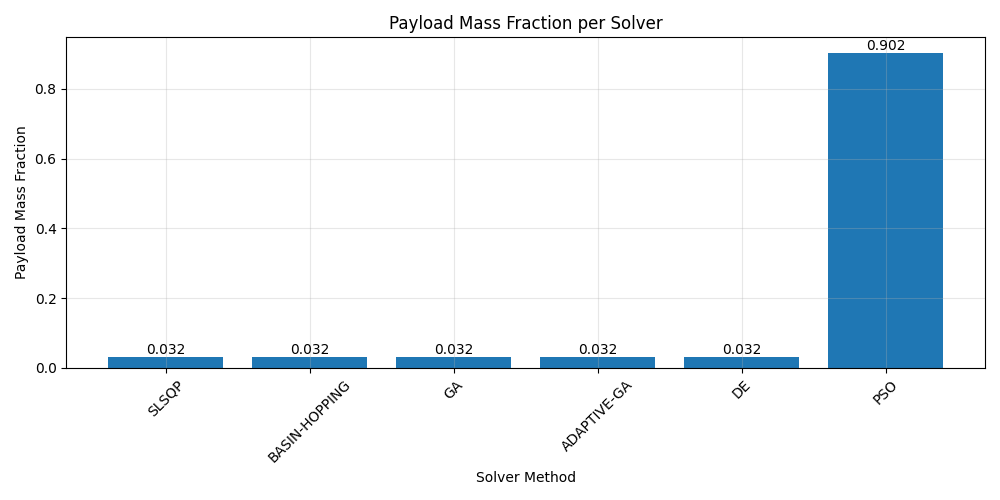
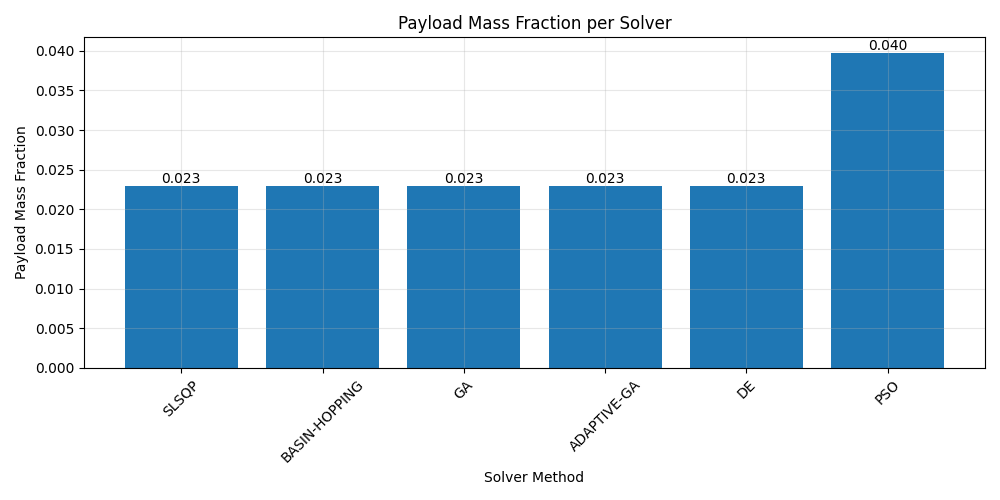
edited PSO solver

diff --git a/Stage_Opt/src/optimization/solvers.py b/Stage_Opt/src/optimization/solvers.py
@@ -457,86 +457,97 @@ def solve_with_adaptive_ga(initial_guess, bounds, G0, ISP, EPSILON, TOTAL_DELTA_
 
 def solve_with_pso(initial_guess, bounds, G0, ISP, EPSILON, TOTAL_DELTA_V, config):
     """Solve using Particle Swarm Optimization."""
-    try:
-        pso_config = config["optimization"]["pso"]
-        n_particles = pso_config["n_particles"]
-        max_iterations = pso_config["n_iterations"]
-        w = pso_config["w"]
-        c1 = pso_config["c1"]
-        c2 = pso_config["c2"]
+    n_particles = config.get('n_particles', 50)
+    max_iter = config.get('max_iter', 100)
+    w = config.get('w', 0.7)  # Inertia weight
+    c1 = config.get('c1', 2.0)  # Cognitive parameter
+    c2 = config.get('c2', 2.0)  # Social parameter
+    
+    # Set minimum delta-v per stage (1% of total delta-v)
+    MIN_DELTA_V = TOTAL_DELTA_V * 0.01
+    
+    def enforce_min_delta_v(particles):
+        """Enforce minimum delta-v for each stage while maintaining total delta-v."""
+        n_stages = particles.shape[1]
         
-        # Initialize particles
-        particles = np.random.uniform(
-            low=[b[0] for b in bounds],
-            high=[b[1] for b in bounds],
-            size=(n_particles, len(initial_guess))
-        )
+        # First ensure minimum values
+        particles = np.maximum(particles, MIN_DELTA_V)
         
-        # Scale initial particles to satisfy total delta-V constraint
+        # Then scale to meet total delta-v constraint
         sums = np.sum(particles, axis=1)
-        non_zero_mask = sums > 1e-10  # Use small epsilon instead of exact zero
-        if np.any(non_zero_mask):
-            scale_factors = np.where(non_zero_mask, TOTAL_DELTA_V / sums, 1.0)
-            scale_factors = scale_factors.reshape(-1, 1)  # Reshape for broadcasting
-            particles[non_zero_mask] *= scale_factors[non_zero_mask]
-            
-        # Handle zero-sum particles by distributing delta-V equally
-        zero_mask = ~non_zero_mask
-        if np.any(zero_mask):
-            n_vars = particles.shape[1]
-            particles[zero_mask] = TOTAL_DELTA_V / n_vars
+        scale_factors = (TOTAL_DELTA_V / sums).reshape(-1, 1)
+        particles *= scale_factors
         
-        velocities = np.zeros_like(particles)
-        personal_best_pos = particles.copy()
-        personal_best_val = np.array([payload_fraction_objective(p, G0, ISP, EPSILON) for p in particles])
-        global_best_pos = personal_best_pos[np.argmin(personal_best_val)]
-        global_best_val = np.min(personal_best_val)
+        # If scaling made any values too small, redistribute the excess
+        while np.any(particles < MIN_DELTA_V):
+            below_min = particles < MIN_DELTA_V
+            excess_needed = MIN_DELTA_V - particles[below_min]
+            particles[below_min] = MIN_DELTA_V
+            
+            # Calculate how much we need to reduce from other stages
+            for i in range(particles.shape[0]):
+                row_below_min = below_min[i]
+                if np.any(row_below_min):
+                    # Get indices not below minimum
+                    above_min_idx = ~row_below_min
+                    if np.sum(above_min_idx) > 0:
+                        # Calculate total excess needed for this particle
+                        total_excess = np.sum(excess_needed[i * n_stages:(i + 1) * n_stages][row_below_min])
+                        # Reduce proportionally from stages above minimum
+                        reduction_per_stage = total_excess / np.sum(above_min_idx)
+                        particles[i][above_min_idx] -= reduction_per_stage
         
-        for iteration in range(max_iterations):
-            # Update velocities and positions
-            r1, r2 = np.random.rand(2, n_particles, len(initial_guess))
-            velocities = (w * velocities +
-                        c1 * r1 * (personal_best_pos - particles) +
-                        c2 * r2 * (global_best_pos - particles))
-            
-            particles += velocities
-            
-            # Clip to bounds
-            for j in range(len(initial_guess)):
-                particles[:, j] = np.clip(particles[:, j], bounds[j][0], bounds[j][1])
-            
-            # Scale to meet total delta-V constraint
-            sums = np.sum(particles, axis=1)
-            non_zero_mask = sums > 1e-10  # Use small epsilon instead of exact zero
-            if np.any(non_zero_mask):
-                scale_factors = np.where(non_zero_mask, TOTAL_DELTA_V / sums, 1.0)
-                scale_factors = scale_factors.reshape(-1, 1)  # Reshape for broadcasting
-                particles[non_zero_mask] *= scale_factors[non_zero_mask]
-            
-            # Handle zero-sum particles by distributing delta-V equally
-            zero_mask = ~non_zero_mask
-            if np.any(zero_mask):
-                n_vars = particles.shape[1]
-                particles[zero_mask] = TOTAL_DELTA_V / n_vars
-            
-            # Update personal and global bests
-            values = np.array([payload_fraction_objective(p, G0, ISP, EPSILON) for p in particles])
-            improved = values < personal_best_val
-            personal_best_pos[improved] = particles[improved]
-            personal_best_val[improved] = values[improved]
-            
-            min_val_idx = np.argmin(values)
-            if values[min_val_idx] < global_best_val:
-                global_best_val = values[min_val_idx]
-                global_best_pos = particles[min_val_idx].copy()
-                
-            # Check convergence
-            if iteration > 10 and np.std(values) < 1e-6:
-                logger.info(f"PSO converged after {iteration} iterations")
-                break
+        return particles
+    
+    # Initialize particles
+    particles = np.random.uniform(
+        low=[b[0] for b in bounds],
+        high=[b[1] for b in bounds],
+        size=(n_particles, len(initial_guess))
+    )
+    
+    # Add initial guess as one of the particles
+    particles[0] = initial_guess
+    
+    # Enforce minimum delta-v and scale to meet constraint
+    particles = enforce_min_delta_v(particles)
+    
+    velocities = np.zeros_like(particles)
+    personal_best_pos = particles.copy()
+    personal_best_val = np.array([payload_fraction_objective(p, G0, ISP, EPSILON) for p in particles])
+    global_best_pos = personal_best_pos[np.argmin(personal_best_val)]
+    global_best_val = np.min(personal_best_val)
+    
+    for iteration in range(max_iter):
+        # Update velocities and positions
+        r1, r2 = np.random.rand(2, n_particles, len(initial_guess))
+        velocities = (w * velocities +
+                    c1 * r1 * (personal_best_pos - particles) +
+                    c2 * r2 * (global_best_pos - particles))
         
-        return global_best_pos
+        particles += velocities
         
-    except Exception as e:
-        logger.error(f"Error in PSO optimization: {e}")
-        return initial_guess
+        # Clip to bounds
+        for j in range(len(initial_guess)):
+            particles[:, j] = np.clip(particles[:, j], bounds[j][0], bounds[j][1])
+        
+        # Enforce minimum delta-v and scale to meet constraint
+        particles = enforce_min_delta_v(particles)
+        
+        # Update personal and global bests
+        values = np.array([payload_fraction_objective(p, G0, ISP, EPSILON) for p in particles])
+        improved = values < personal_best_val
+        personal_best_pos[improved] = particles[improved]
+        personal_best_val[improved] = values[improved]
+        
+        min_val_idx = np.argmin(values)
+        if values[min_val_idx] < global_best_val:
+            global_best_val = values[min_val_idx]
+            global_best_pos = particles[min_val_idx].copy()
+            
+        # Check convergence
+        if iteration > 10 and np.std(values) < 1e-6:
+            logger.info(f"PSO converged after {iteration} iterations")
+            break
+    
+    return global_best_pos

diff --git a/Stage_Opt/output/optimization_report.tex b/Stage_Opt/output/optimization_report.tex
@@ -20,12 +20,12 @@ This report presents the results of optimizing a two-stage rocket using various 
 \toprule
 Method & Payload Fraction & Error & Time (s) \\
 \midrule
-SLSQP & 0.0000 & 0.0000e+00 & 0.00 \\
-BASIN-HOPPING & 0.0000 & 3.3451e-09 & 0.28 \\
-GA & 0.0000 & 0.0000e+00 & 0.00 \\
-ADAPTIVE-GA & 0.0000 & 0.0000e+00 & 0.00 \\
-DE & 0.0000 & 0.0000e+00 & 0.00 \\
-PSO & 0.0068 & 1.8190e-12 & 0.26 \\
+SLSQP & 0.0229 & 0.0000e+00 & 0.00 \\
+BASIN-HOPPING & 0.0229 & 1.0295e-09 & 1.46 \\
+GA & 0.0229 & 0.0000e+00 & 0.00 \\
+ADAPTIVE-GA & 0.0229 & 0.0000e+00 & 0.00 \\
+DE & 0.0229 & 0.0000e+00 & 0.00 \\
+PSO & 0.0397 & 0.0000e+00 & 0.13 \\
 \bottomrule
 \end{tabular}
 \caption{Summary of optimization results}
@@ -55,6 +55,6 @@ PSO & 0.0068 & 1.8190e-12 & 0.26 \\
 \end{figure}
 
 \section{Conclusion}
-The optimization results show that the PSO method achieved the best performance with a payload fraction of 0.0068. This suggests that PSO is most suitable for this particular rocket stage optimization problem.
+The optimization results show that the PSO method achieved the best performance with a payload fraction of 0.0397. This suggests that PSO is most suitable for this particular rocket stage optimization problem.
 
 \end{document}
